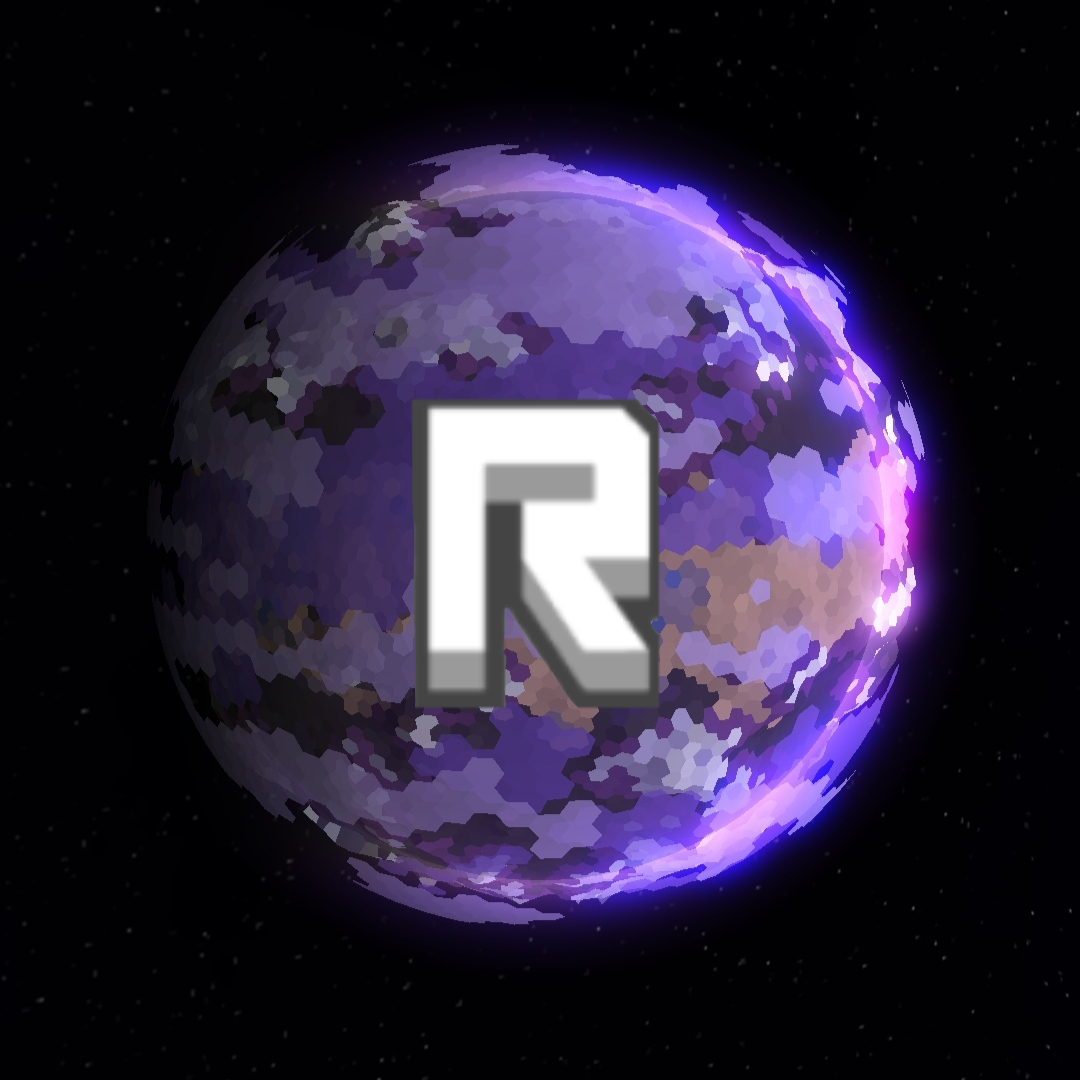
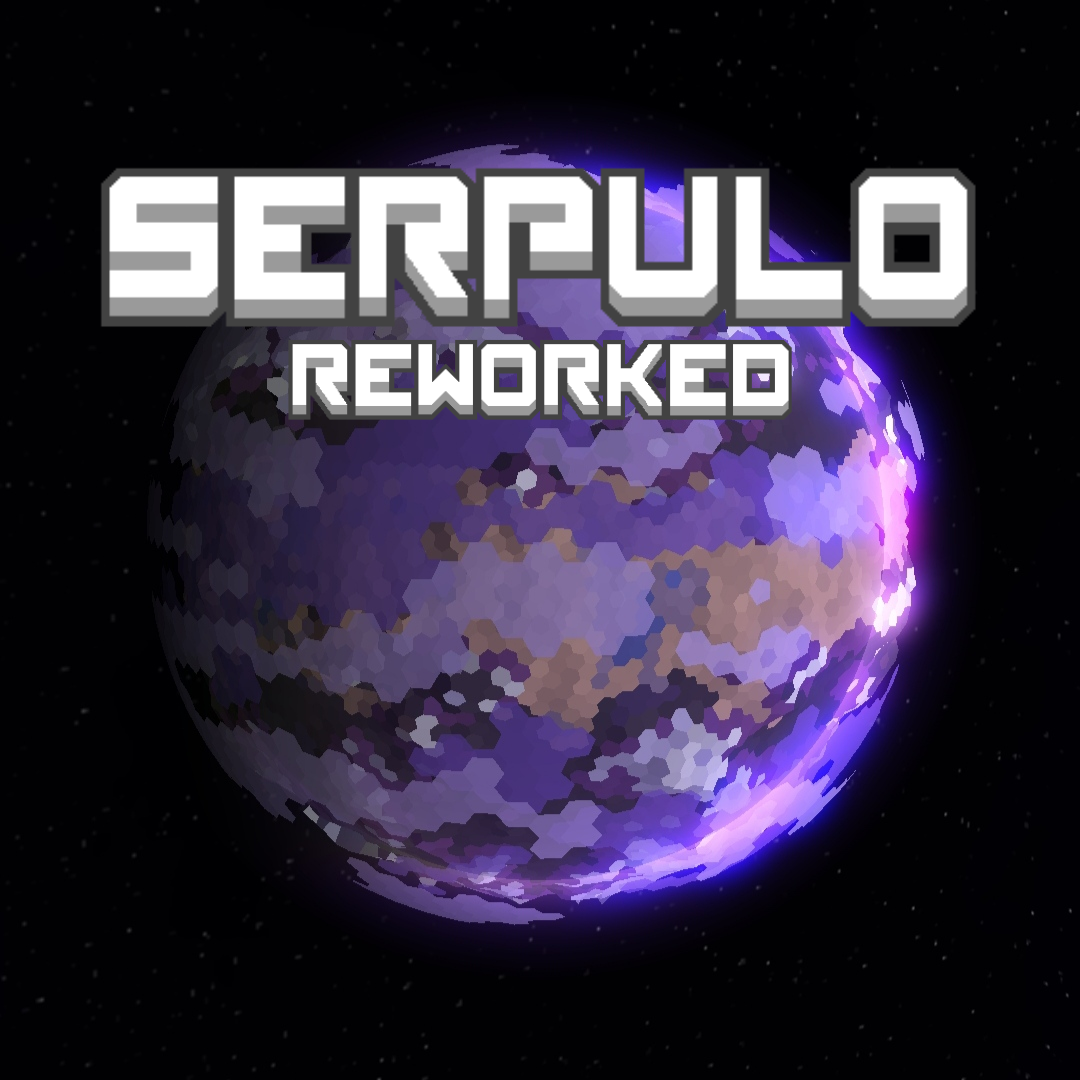
feat: added more blocks and unit "Flare"

Changed region(s): [[0.0917, 0.1528, 0.9167, 0.6722]]

diff --git a/LICENSE.md b/LICENSE.md
@@ -1,11 +1,11 @@
-Copyright (c) 2026 Dov1ntc & nclr
+Copyright (c) 2026 [Dov1ntc](https://github.com/dovintc-off) & [nclr](https://github.com/nclr-111)
 
 All rights reserved.
 
 This mod is proprietary software. You are not allowed to:
 1. Copy, modify, merge, publish, distribute, sublicense, or sell copies of this mod.
 2. Reverse engineer, decompile, or disassemble the software.
-3. Use this mod's code or assets in other projects without explicit written permission from the author.
+3. Use this mod's code or assets in other projects without explicit written permission from the authors.
 
 You are only allowed to download and play this mod for personal use via official distribution channels (e.g., Steam Workshop, GitHub Releases by the author).
 

diff --git a/update.md b/update.md
@@ -1,0 +1,18 @@
+@everyone 
+
+Update from July 11th
+
+# New blocks:
+1. Power Node
+2. Large Power Node (In development)
+3. Solar Panel
+4. Large Solar Panel (In development)
+5. Air Fabric
+
+# Units:
+1. Flare
+
+# Another Changes:
+1. Change Mod Icon
+2. Add more translations in localization files
+3. Improving the license file
